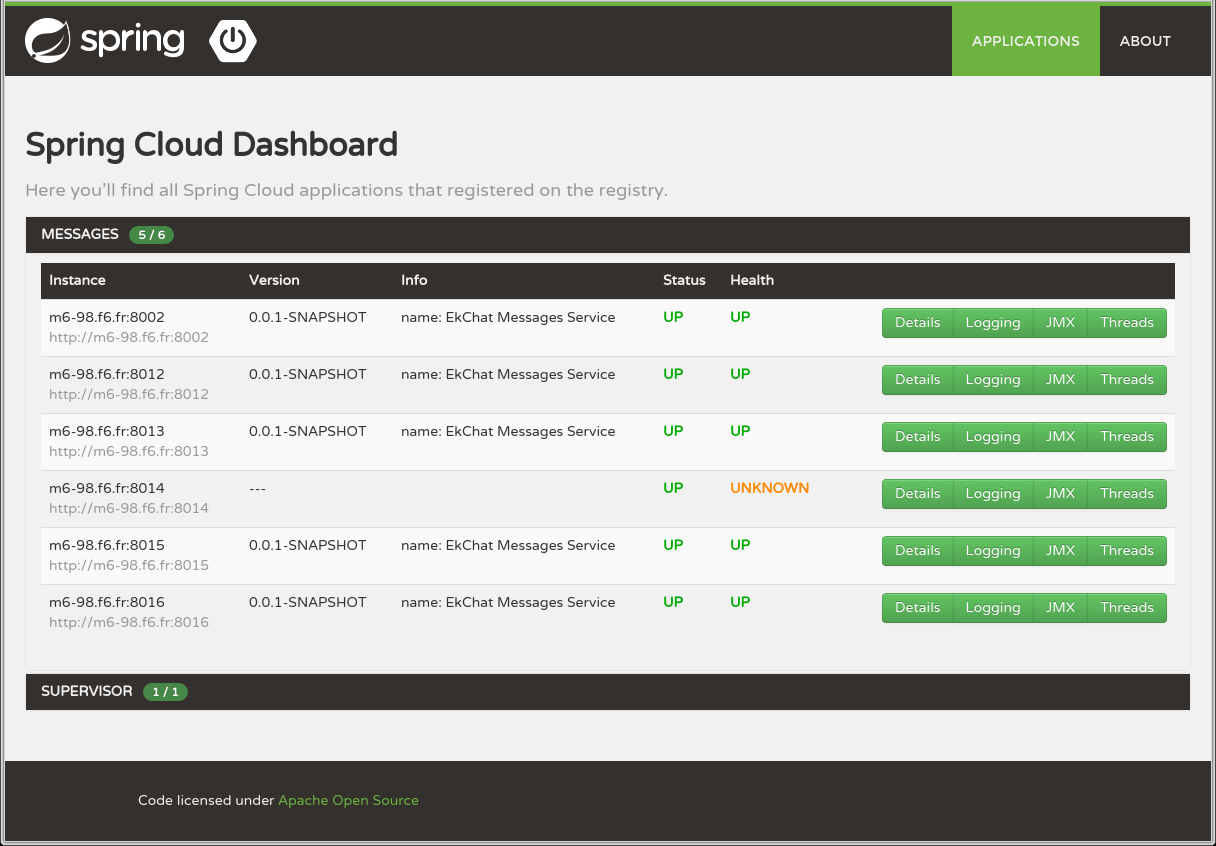
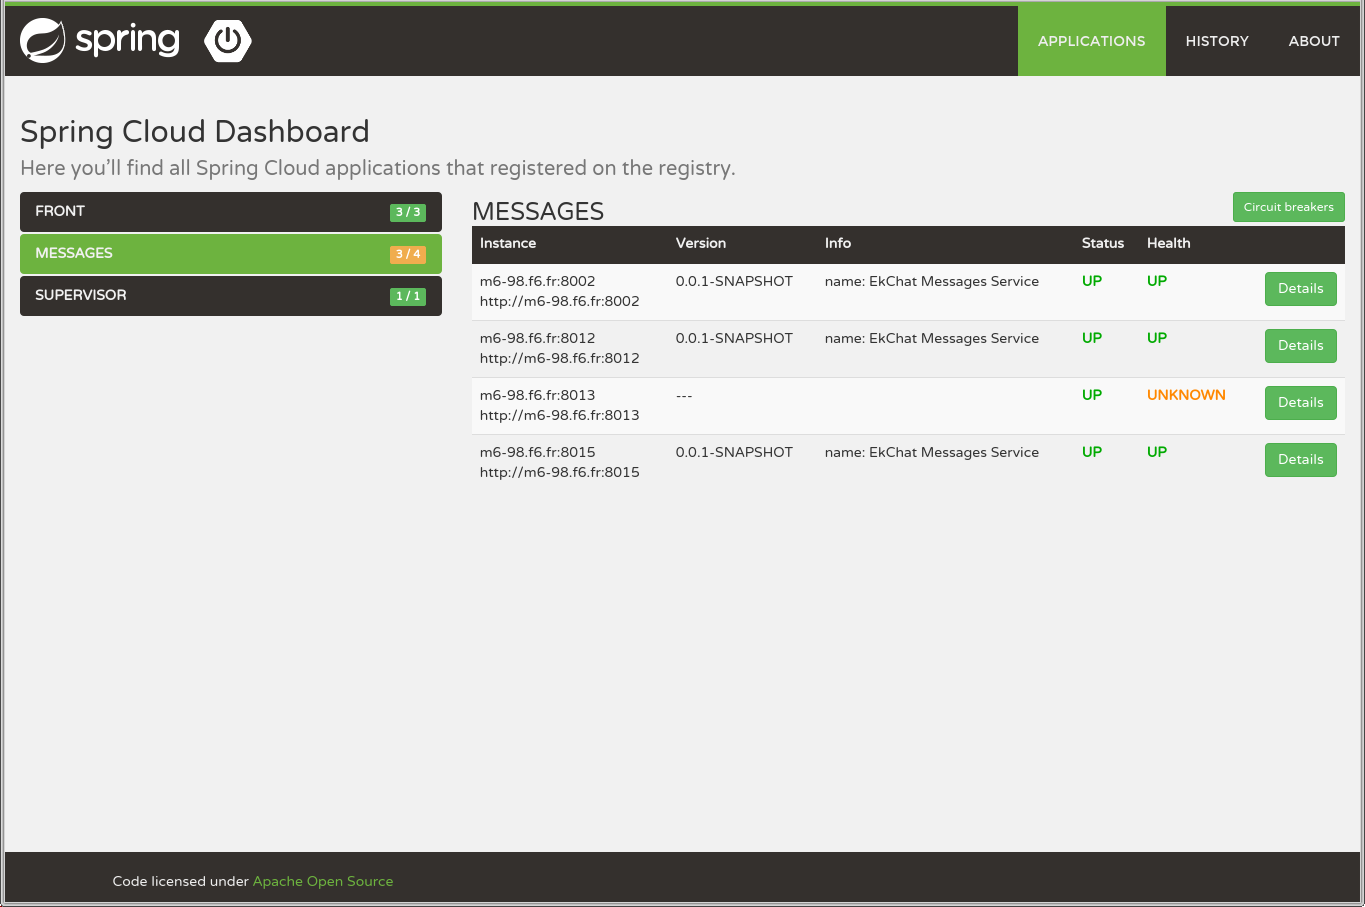
Update README with circuit breaker screenshot

diff --git a/README.md b/README.md
@@ -2,7 +2,7 @@ spring-cloud-dashboard
 ================================
 
 This application provides a simple GUI to administrate Spring Cloud applications infrastructure.
-It's a fork of [Spring Boot Admin](https://github.com/codecentric/spring-boot-admin) to manage applications registred in service registry (like Eureka).
+It's a fork of [Spring Boot Admin](https://github.com/codecentric/spring-boot-admin) to manage applications registered in service registry (like Eureka).
 
 At the moment it provides the following features for every registered application (most of then inherited of spring-boot-admin).
 
@@ -17,9 +17,13 @@ At the moment it provides the following features for every registered applicatio
 * Interact with JMX-Beans
 * View Threaddump
 
+Any specific spring cloud information are also available in dashboard
+
+* Application registry history ( from Eureka Server )
+* Circuit Breaker dashboard ( from Hystrix or Turbine )
 
 ## Easy Setup
-Add the following dependency to your pom.xml.
+Add the following dependency to your pom.xml after you have build this project locally.
 
 ```
 <dependency>
@@ -43,5 +47,14 @@ public class Application {
 
 #### Screenshot:
 
+##### Application registry:
 [](url "title") 
 <img src="https://raw.githubusercontent.com/vanroy/spring-cloud-dashboard/master/screenshot.png">
+
+##### Circuit breaker:
+[](url "title")
+<img src="https://raw.githubusercontent.com/vanroy/spring-cloud-dashboard/master/screenshot-circuit-breaker.png">
+
+##### Registry history:
+[](url "title")
+<img src="https://raw.githubusercontent.com/vanroy/spring-cloud-dashboard/master/screenshot-history.png">
